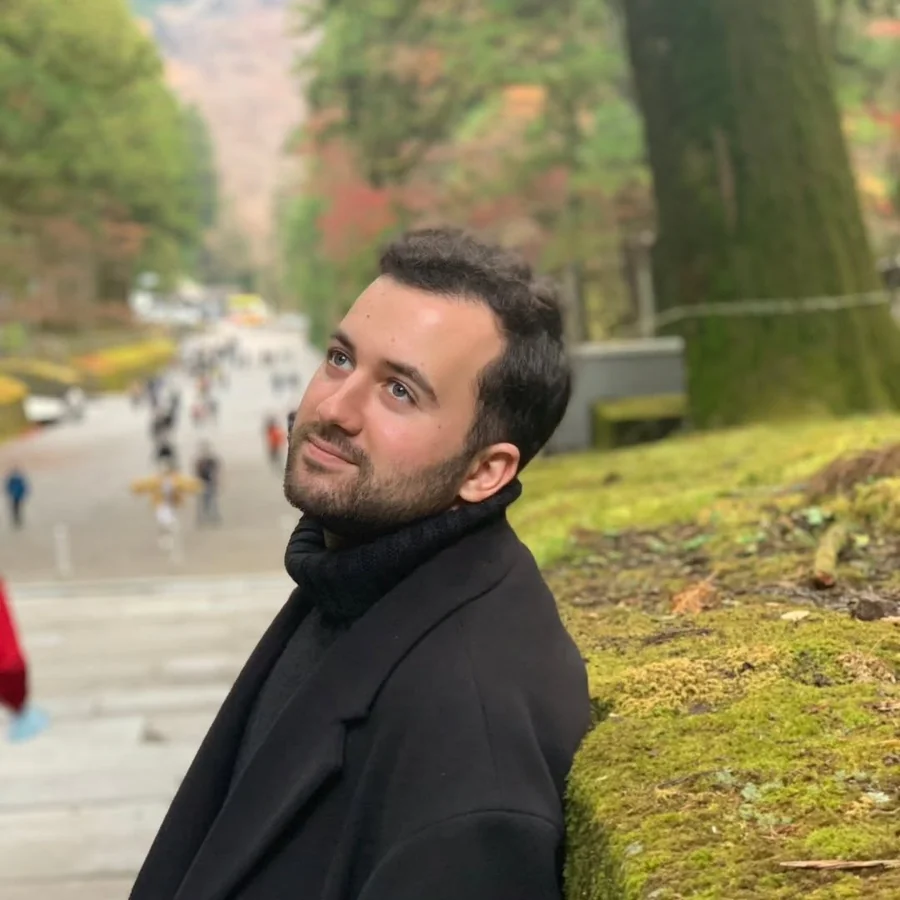
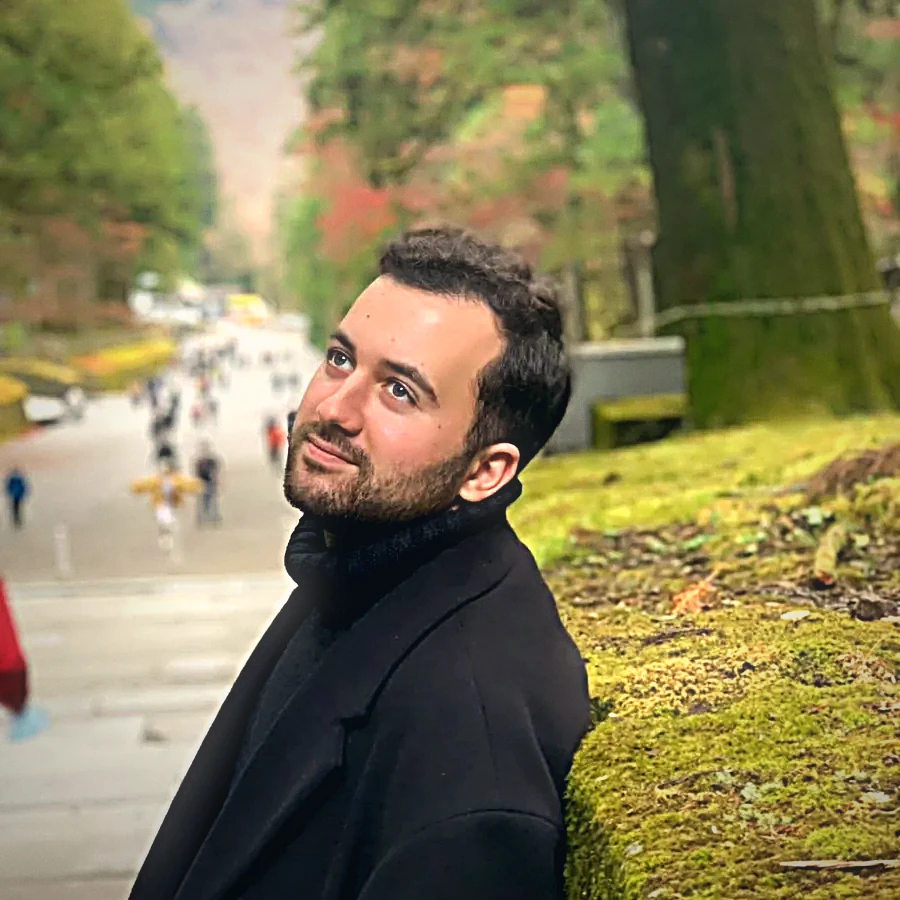
Add contactTitle translations for all 5 languages

diff --git a/main.js b/main.js
@@ -73,6 +73,7 @@
                 navProjects: "PROJECTS",
                 navSkills: "SKILLS",
                 navContact: "CONTACT",
+                contactTitle: "CONTACT",
                 captchaRobot: "I'm not a robot",
                 captchaQuestion: "Solve",
                 captchaOk: "Verified",
@@ -154,6 +155,7 @@
                 navProjects: "المشاريع",
                 navSkills: "المهارات",
                 navContact: "تواصل",
+                contactTitle: "تواصل",
                 captchaRobot: "أنا لست روبوتًا",
                 captchaQuestion: "حل",
                 captchaOk: "تم التحقق",
@@ -235,6 +237,7 @@
                 navProjects: "プロジェクト",
                 navSkills: "スキル",
                 navContact: "お問い合わせ",
+                contactTitle: "お問い合わせ",
                 captchaRobot: "私はロボットではありません",
                 captchaQuestion: "計算",
                 captchaOk: "確認済み",
@@ -316,6 +319,7 @@
                 navProjects: "프로젝트",
                 navSkills: "기술",
                 navContact: "연락처",
+                contactTitle: "연락처",
                 captchaRobot: "저는 로봇이 아닙니다",
                 captchaQuestion: "계산",
                 captchaOk: "확인됨",
@@ -397,6 +401,7 @@
                 navProjects: "PROJELER",
                 navSkills: "YETENEKLER",
                 navContact: "İLETİŞİM",
+                contactTitle: "İLETİŞİM",
                 captchaRobot: "Ben robot değilim",
                 captchaQuestion: "Çöz",
                 captchaOk: "Doğrulandı",

diff --git a/enhance_photo.py b/enhance_photo.py
@@ -1,0 +1,89 @@
+"""
+Cinematic aesthetic pass for the portfolio portrait.
+
+Keeps the subject's identity intact while adding depth:
+ - gentle tone/contrast stretch (no more "flat")
+ - warm-highlight / cool-shadow split tone (matches the site palette)
+ - soft bloom around highlights for a lit, dimensional feel
+ - clarity (unsharp mask) so the subject reads crisp
+ - subtle vignette + fine film grain
+"""
+import numpy as np
+from PIL import Image, ImageEnhance, ImageFilter
+
+SRC = "MY-PHOTO-original.webp"
+DST = "MY-PHOTO.webp"
+
+
+def srgb_to_linear(x):
+    return np.where(x <= 0.04045, x / 12.92, ((x + 0.055) / 1.055) ** 2.4)
+
+
+def linear_to_srgb(x):
+    return np.where(x <= 0.0031308, x * 12.92, 1.055 * np.clip(x, 0, None) ** (1 / 2.4) - 0.055)
+
+
+def main():
+    img = Image.open(SRC).convert("RGB")
+    arr = np.asarray(img).astype(np.float32) / 255.0
+
+    # --- 1. Soft tone stretch (percentile based, protects highlights) ---
+    lo = np.percentile(arr, 1.0)
+    hi = np.percentile(arr, 99.0)
+    arr = np.clip((arr - lo) / (hi - lo + 1e-6), 0, 1)
+    arr = arr ** 0.97  # tiny midtone lift
+
+    # --- 2. Base colour + contrast lift ---
+    base = Image.fromarray((arr * 255).astype(np.uint8))
+    base = ImageEnhance.Color(base).enhance(1.06)
+    base = ImageEnhance.Contrast(base).enhance(1.05)
+    base = base.filter(ImageFilter.UnsharpMask(radius=4, percent=90, threshold=4))
+
+    arr = np.asarray(base).astype(np.float32) / 255.0
+
+    # --- 3. Split toning: cool shadows, warm highlights ---
+    lum = arr @ np.array([0.2126, 0.7152, 0.0722], dtype=np.float32)
+    shadow_w = np.clip(1.0 - lum * 1.9, 0, 1)[..., None]
+    high_w = np.clip((lum - 0.55) * 2.0, 0, 1)[..., None]
+
+    shadow_tint = np.array([0.22, 0.40, 0.58], dtype=np.float32)   # teal-blue
+    high_tint = np.array([1.00, 0.80, 0.58], dtype=np.float32)     # soft amber
+
+    arr = arr + (shadow_tint - arr) * shadow_w * 0.12
+    arr = arr + (high_tint - arr) * high_w * 0.10
+    arr = np.clip(arr, 0, 1)
+
+    # --- 4. Bloom / glow around bright areas (screen blend) ---
+    lin = srgb_to_linear(arr)
+    bright = np.clip((lin - 0.78) / 0.22, 0, 1)
+    glow_l = np.asarray(
+        Image.fromarray((bright * 255).astype(np.uint8)).convert("L").filter(
+            ImageFilter.GaussianBlur(22)
+        )
+    ).astype(np.float32) / 255.0
+    lin = 1 - (1 - lin) * (1 - glow_l[..., None] * 0.22)
+    arr = np.clip(linear_to_srgb(lin), 0, 1)
+
+    # --- 5. Vignette ---
+    h, w = arr.shape[:2]
+    ys, xs = np.mgrid[0:h, 0:w]
+    cx, cy = w / 2, h / 2
+    r = np.sqrt(((xs - cx) / cx) ** 2 + ((ys - cy) / cy) ** 2)
+    vig = np.clip(1.0 - (r - 0.68) * 0.48, 0.6, 1.0)[..., None]
+    arr = arr * vig
+
+    # --- 6. Fine film grain (midtones only) ---
+    rng = np.random.default_rng(7)
+    grain = (rng.random(arr.shape[:2]) - 0.5)[..., None] * (1 / 255) * 7
+    grain = grain * (1 - np.abs(arr - 0.5) * 1.4).clip(0.15, 1.0)
+    arr = np.clip(arr + grain, 0, 1)
+
+    # --- 7. Finish ---
+    out = Image.fromarray((arr * 255).astype(np.uint8))
+    out = ImageEnhance.Sharpness(out).enhance(1.08)
+    out.save(DST, "WEBP", quality=90, method=6)
+    print("saved", DST, out.size)
+
+
+if __name__ == "__main__":
+    main()
